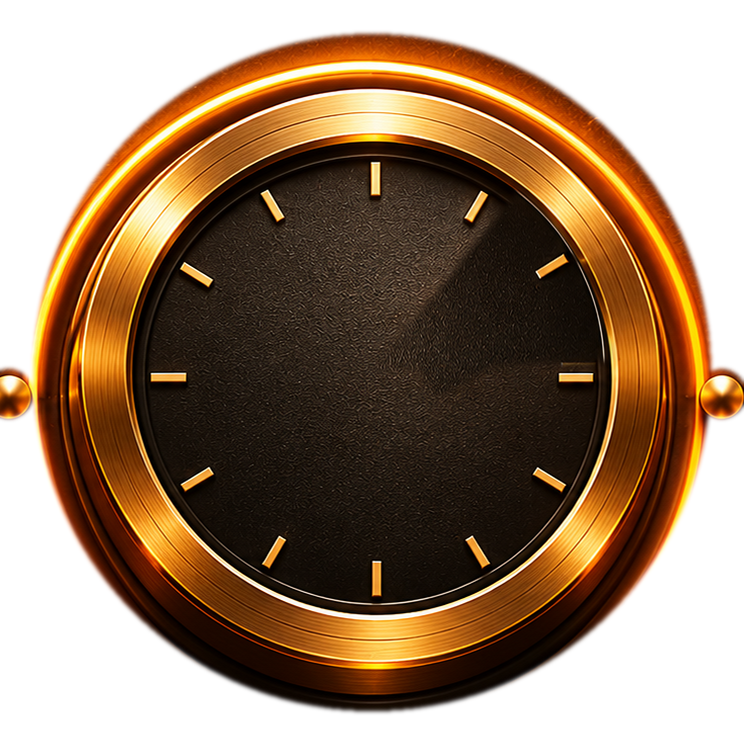
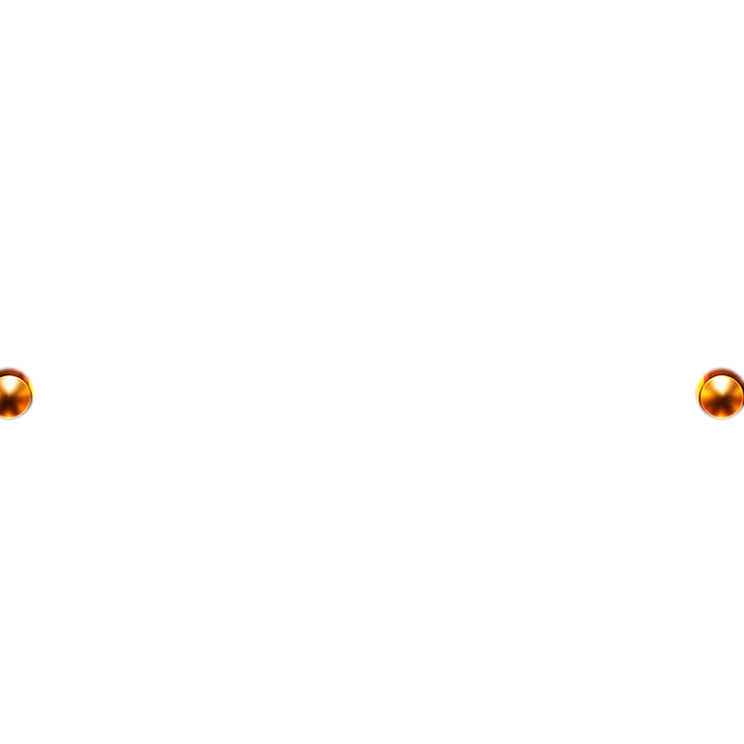
feat: Output dugmeleri: tum dugme (yuz + halka + ibre) birlikte doner, yan civiler sabit; eski dugmeler ve yazilari zeminden silindi; MASTER iki VU'nun tam ortasinda, THRESH sag altta; MASTER / THRESH etiketleri canli yazi

diff --git a/src/preload.js b/src/preload.js
@@ -2689,6 +2689,10 @@ if (isAutotunePage()) {
     .skin .section.output .knob.dark::before { background-image:${T('sk-st-kout-thresh-base.png')} !important; }
     .skin .section.output .knob.dark::after { background-image:${T('sk-st-kout-thresh-cap.png')} !important; }
     .skin .section.output .knob::after { filter:drop-shadow(0 2px 2px #000a) !important; }
+    .skin .section.output .knob-box::after { position:absolute; left:-60%; right:-60%; top:104%; text-align:center; color:#e9d6a8; text-shadow:0 1px 2px #000, 0 0 4px #0008;
+      font:600 calc(34 / 4344 * 100cqw)/1 'Barlow Condensed','Oswald',sans-serif; letter-spacing:.06em; pointer-events:none; }
+    .skin .section.output .knob-box:has(.knob.big)::after { content:'MASTER'; }
+    .skin .section.output .knob-box:has(.knob.dark)::after { content:'THRESH'; font-size:calc(28 / 4344 * 100cqw); }
     /* new dials: pivot at the bottom centre (behind the L/R bezel); the bezel cover sprite sits above the needle */
     .skin .section.output .vu .nd { bottom:-1% !important; height:70% !important; width:.9% !important; transform-origin:50% 97% !important; z-index:1; }
     .skin .section.output .vu::after { content:''; position:absolute; inset:0; z-index:2; pointer-events:none; background:center / 100% 100% no-repeat; }
@@ -3228,7 +3232,7 @@ if (isAutotunePage()) {
       const enhBtns=qa(enhSection,'.switches > .btn'); stPlace(enhBtns[0],2778,333,3262,393);
       enhBtns.slice(1).forEach((el,i)=>stPlace(el,[[2780,420,2930,480],[2950,420,3097,480],[3117,420,3262,480]][i][0],420,[[2780,420,2930,480],[2950,420,3097,480],[3117,420,3262,480]][i][2],480));
       const vus=q(outSection,'.vus'); qa(vus,'.vu').forEach((el,i)=>stPlace(el,...(i===0?[3368,172,3648,365]:[3675,172,3952,365])));
-      const outKnobs=qa(outSection,'.knob-box'); outKnobs.forEach((el,i)=>stPlace(el,...(i===0?[3443,375,3651,583]:[3737,427,3829,519])));
+      const outKnobs=qa(outSection,'.knob-box'); outKnobs.forEach((el,i)=>stPlace(el,...(i===0?[3556,362,3764,570]:[3842,566,3934,658])));
       stPlace(q(outSection,'.limiter'),3553,655,3743,715);
       const chainRow=q(chainSection,'.st-chainrow'); qa(chainRow,'.st-mod').forEach((el,i)=>{el.style.flex='0 1 calc('+[450,450,175,175,270,175,175,175,270,270,260,270,270,260][i]+' / 4344 * 100cqw)';});
       const chainbar=q(chainSection,'.st-chainbar'); stPlace(chainbar,973,845,2320,902); chainbar.classList.add('st-placed');

diff --git a/design/tools/studio_outknobs.py b/design/tools/studio_outknobs.py
@@ -1,6 +1,6 @@
 # Output MASTER / THRESH knobs from design/ref/outknobs-ref.png.
-# base = the whole knob with its pointer painted out (static); cap = the pointer alone, rotated to point straight up, on a
-# canvas the same size as the base, so both share one exact centre (fitted to the dark face circle) and the cap turns in place.
+# cap = the whole round knob with its pointer, rotated so the pointer points up (turns as one piece); base = the two side studs
+# (static). Same canvas size, one exact centre (fitted to the dark face circle), so the knob turns in place.
 # usage: python -I design/tools/studio_outknobs.py design/ref/outknobs-ref.png design/tex
 import sys, math
 import numpy as np
@@ -32,17 +32,19 @@ def knob(name, cx, cy, R, rdisc, studs, p0, p1, pw):
     d2.pieslice([R - rin, R - rin, R + rin, R + rin], a0 - 22, a0 + 26, fill=255)
     big = em.filter(ImageFilter.GaussianBlur(3))
     base = Image.composite(fill, crop, big)
-    am = Image.new('L', (S, S)); d = ImageDraw.Draw(am)
-    d.ellipse([R - rdisc, R - rdisc, R + rdisc, R + rdisc], fill=255)
+    # cap = the whole round knob WITH its pointer (it turns as one piece), rotated so the pointer points up
+    ang = math.degrees(math.atan2(q1[0] - R, -(q1[1] - R)))
+    dm = Image.new('L', (S, S)); ImageDraw.Draw(dm).ellipse([R - rdisc, R - rdisc, R + rdisc, R + rdisc], fill=255)
+    dm = dm.filter(ImageFilter.GaussianBlur(2))
+    cap = crop.convert('RGBA'); cap.putalpha(dm)
+    cap = cap.rotate(ang, resample=Image.BICUBIC, center=c)   # PIL: positive = counter-clockwise
+    cap.save(f'{out}/sk-st-{name}-cap.png', optimize=True)
+    # base = only the two side studs (they stay put)
+    sm = Image.new('L', (S, S)); d = ImageDraw.Draw(sm)
     for (sx, sy, sr) in studs:
         sx, sy = sx - cx + R, sy - cy + R; d.ellipse([sx - sr, sy - sr, sx + sr, sy + sr], fill=255)
-    am = am.filter(ImageFilter.GaussianBlur(2))
-    b = base.convert('RGBA'); b.putalpha(am); b.save(f'{out}/sk-st-{name}-base.png', optimize=True)
-    # cap: the pointer pixels, rotated so it points up (angle measured clockwise from 12 o'clock)
-    ang = math.degrees(math.atan2(q1[0] - R, -(q1[1] - R)))
-    cap = crop.convert('RGBA'); cap.putalpha(pm)
-    cap = cap.rotate(ang, resample=Image.BICUBIC, center=c)   # PIL rotates counter-clockwise for positive angles
-    cap.save(f'{out}/sk-st-{name}-cap.png', optimize=True)
+    sm = sm.filter(ImageFilter.GaussianBlur(1.5))
+    b = crop.convert('RGBA'); b.putalpha(sm); b.save(f'{out}/sk-st-{name}-base.png', optimize=True)
     print(name, 'pointer angle', round(ang, 1))
 knob('kout-master', 523.5, 360.0, 372, 338, [(160, 381, 24), (873, 381, 24)], (585, 333), (722, 257), 24)
 knob('kout-thresh', 1327.4, 385.2, 192, 172, [(1143, 400, 16), (1503, 400, 16)], (1355, 408), (1420, 463), 14)

diff --git a/design/tools/studio_title_fix.py b/design/tools/studio_title_fix.py
@@ -14,3 +14,20 @@ for job in sys.argv[2:] or ['enh']:
     if job == 'out': shift(20, 104, 142, 3538, 3692)      # OUTPUT: ~20 px left
     if job == 'outplate': shift(22, 86, 152, 3412, 3862)  # OUTPUT name plate: ~22 px left of the module centre
 Image.fromarray(a).save(p, quality=86)
+# 'outknobs': paint the old MASTER / THRESH knobs and labels out of the Output plate (live knobs + labels replace them)
+if 'outknobs' in sys.argv[2:]:
+    exec(open(__file__.replace('studio_title_fix.py', 'studio_cut_lib.py')).read().split("def crop(b)")[0])
+    import importlib.util
+    def texfill(b, src, feather=12):
+        sx0, sy0, sx1, sy1 = src; p_ = a[sy0:sy1, sx0:sx1].astype(np.float32)
+        w, h = b[2] - b[0], b[3] - b[1]; t = p_
+        while t.shape[1] < w: t = np.concatenate([t, t[:, ::-1]], 1)
+        t = t[:, :w]
+        while t.shape[0] < h: t = np.concatenate([t, t[::-1]], 0)
+        t = t[:h]
+        yy, xx = np.mgrid[0:h, 0:w]; f = np.minimum.reduce([xx, yy, w - 1 - xx, h - 1 - yy]).astype(np.float32)
+        al = np.clip(f / feather, 0, 1)[..., None]
+        a[b[1]:b[3], b[0]:b[2]] = (a[b[1]:b[3], b[0]:b[2]] * (1 - al) + t * al).astype(np.uint8)
+    texfill((3425, 360, 3672, 640), (3690, 585, 3900, 650))
+    texfill((3715, 405, 3850, 590), (3690, 585, 3900, 650))
+    Image.fromarray(a).save(p, quality=86)
